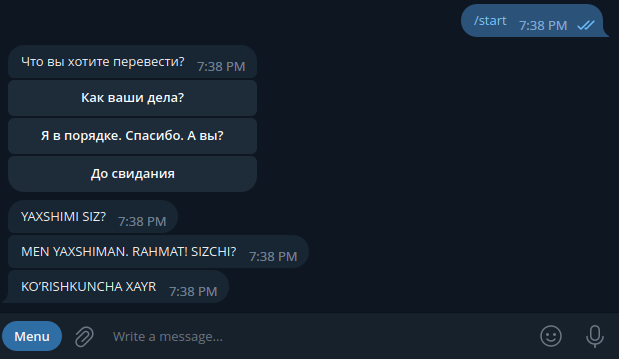
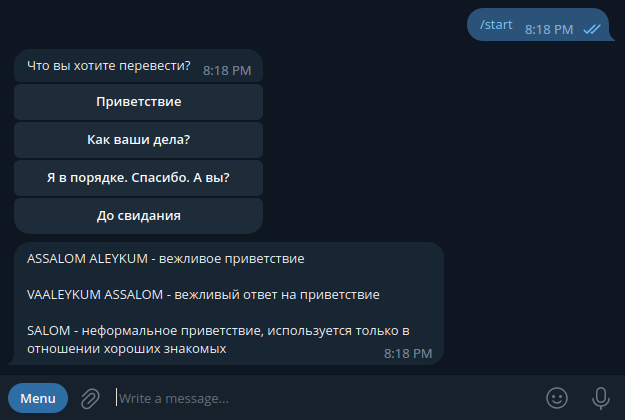
4 variants

diff --git a/main.py b/main.py
@@ -4,9 +4,7 @@ from telebot import types
 env = 'TOKEN'
 file = open('./test.env')
 env_2 = file.readlines()[0]
-# env_3 = '{}'.format(env_2)
 file.close()
-# print(env_4)
 bot = telebot.TeleBot(env)
 
 
@@ -14,6 +12,8 @@ bot = telebot.TeleBot(env)
 def start(message):
     if message.text:
         keyboard = types.InlineKeyboardMarkup()
+        key_greetings = types.InlineKeyboardButton(text='Приветствие', callback_data='greetings')
+        keyboard.add(key_greetings)
         key_how_are_you = types.InlineKeyboardButton(text='Как ваши дела?', callback_data='how_are_you')
         keyboard.add(key_how_are_you)
         key_fine_and_you= types.InlineKeyboardButton(text='Я в порядке. Спасибо. А вы?', callback_data='fine_and_you')
@@ -25,12 +25,14 @@ def start(message):
 
 @bot.callback_query_handler(func=lambda call: True)
 def callback_worker(call):
+    if call.data == "greetings":
+        bot.send_message(call.message.chat.id, 'ASSALOM ALEYKUM - вежливое приветствие\n\nVAALEYKUM ASSALOM - вежливый ответ на приветствие\n\nSALOM - неформальное приветствие, используется только в отношении хороших знакомых')
     if call.data == "how_are_you":
-        bot.send_message(call.message.chat.id, 'YAXSHIMI SIZ?')
+        bot.send_message(call.message.chat.id, 'YAXSHIMI SIZ? - как Ваши дела?\n\nTAZUVMI SIZ? - как Ваши дела?\n\nISHLARINGIZ QALAY? - как твои дела?')
     if call.data == "fine_and_you":
-        bot.send_message(call.message.chat.id, 'MEN YAXSHIMAN. RAHMAT! SIZCHI?')
+        bot.send_message(call.message.chat.id, 'HA YAXSHI, RAHMAT. SIZDA CHI? - Хорошо, спасибо. А у Вас?\n\nMEN YAXSHIMAN. RAHMAT! SIZCHI? - Хорошо, спасибо, а Ваши?')
     if call.data == "by":
-        bot.send_message(call.message.chat.id, 'KO’RISHKUNCHA XAYR')
+        bot.send_message(call.message.chat.id, 'KO’RISHKUNCHA / KO’RISHKUNCHA XAYR - до свидания\n\nXAYR - пока\n\nUCHRASHUVGACHA/UCHRASHAMIZ - увидимся\n\nSAGIBOLING - пока / будьте здоровы')
 
 
 
